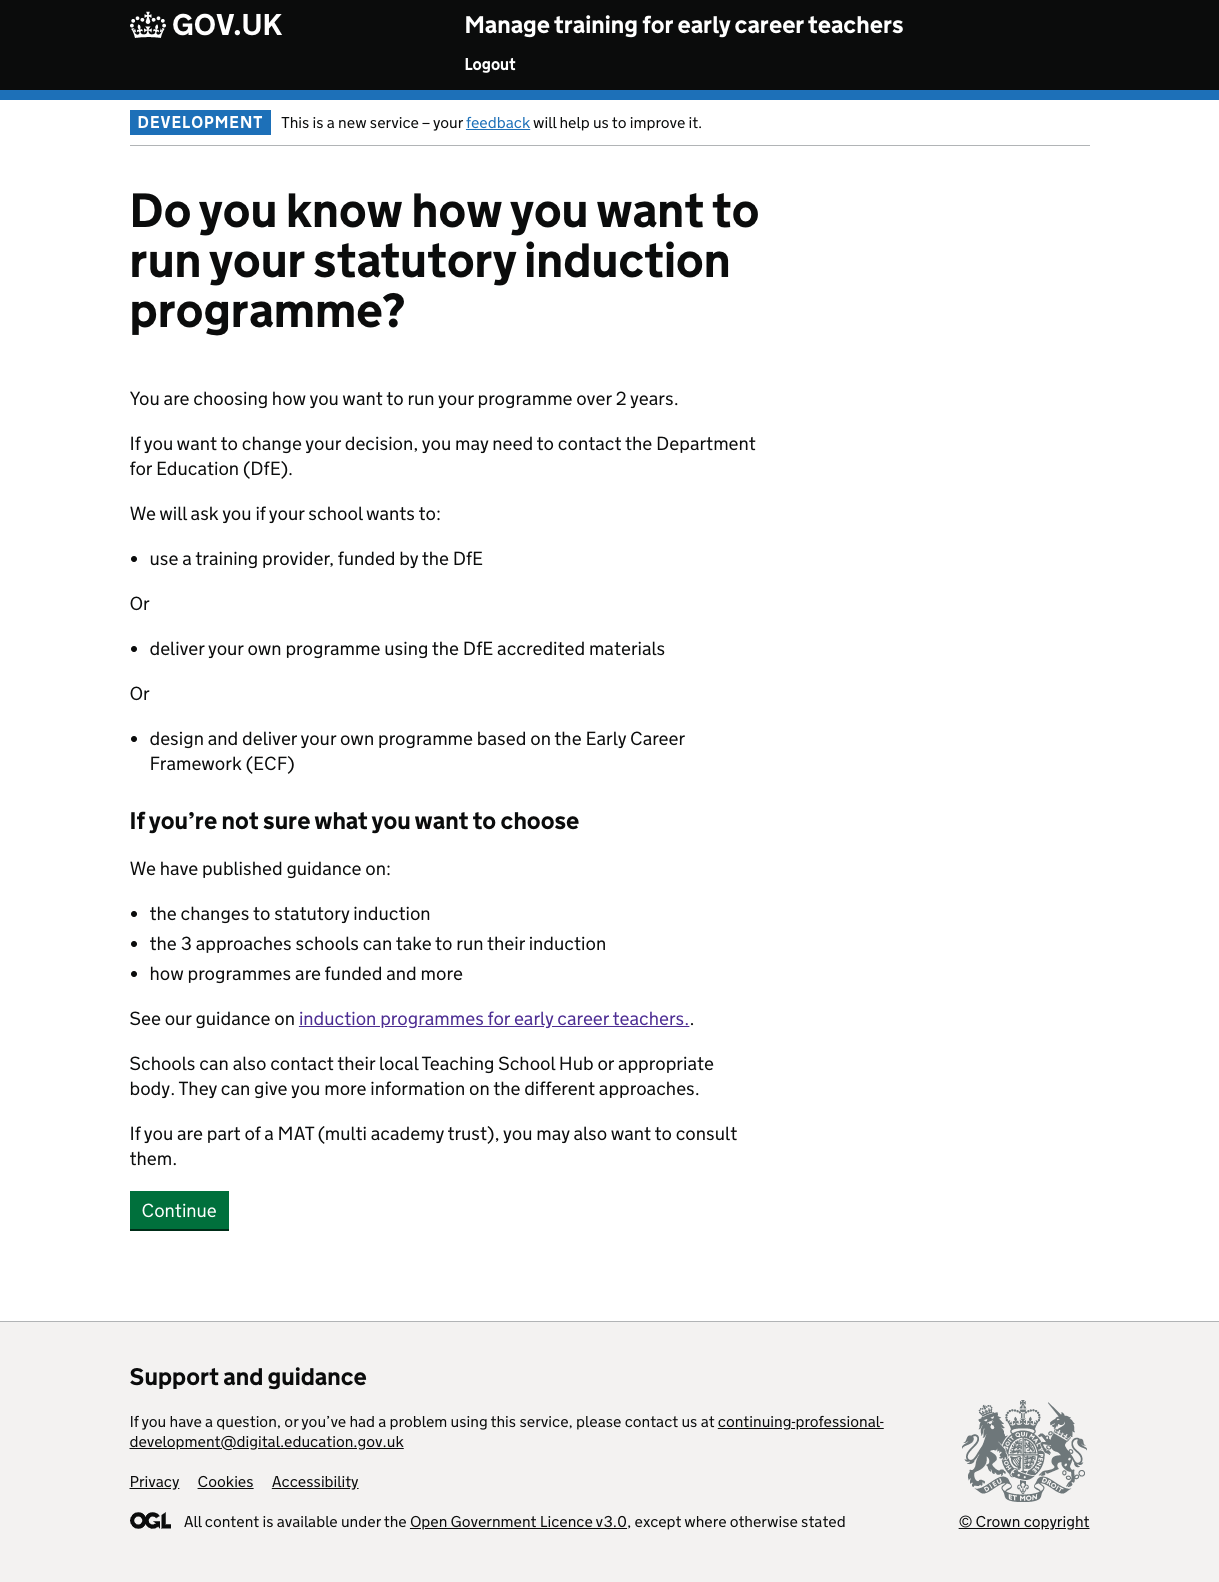
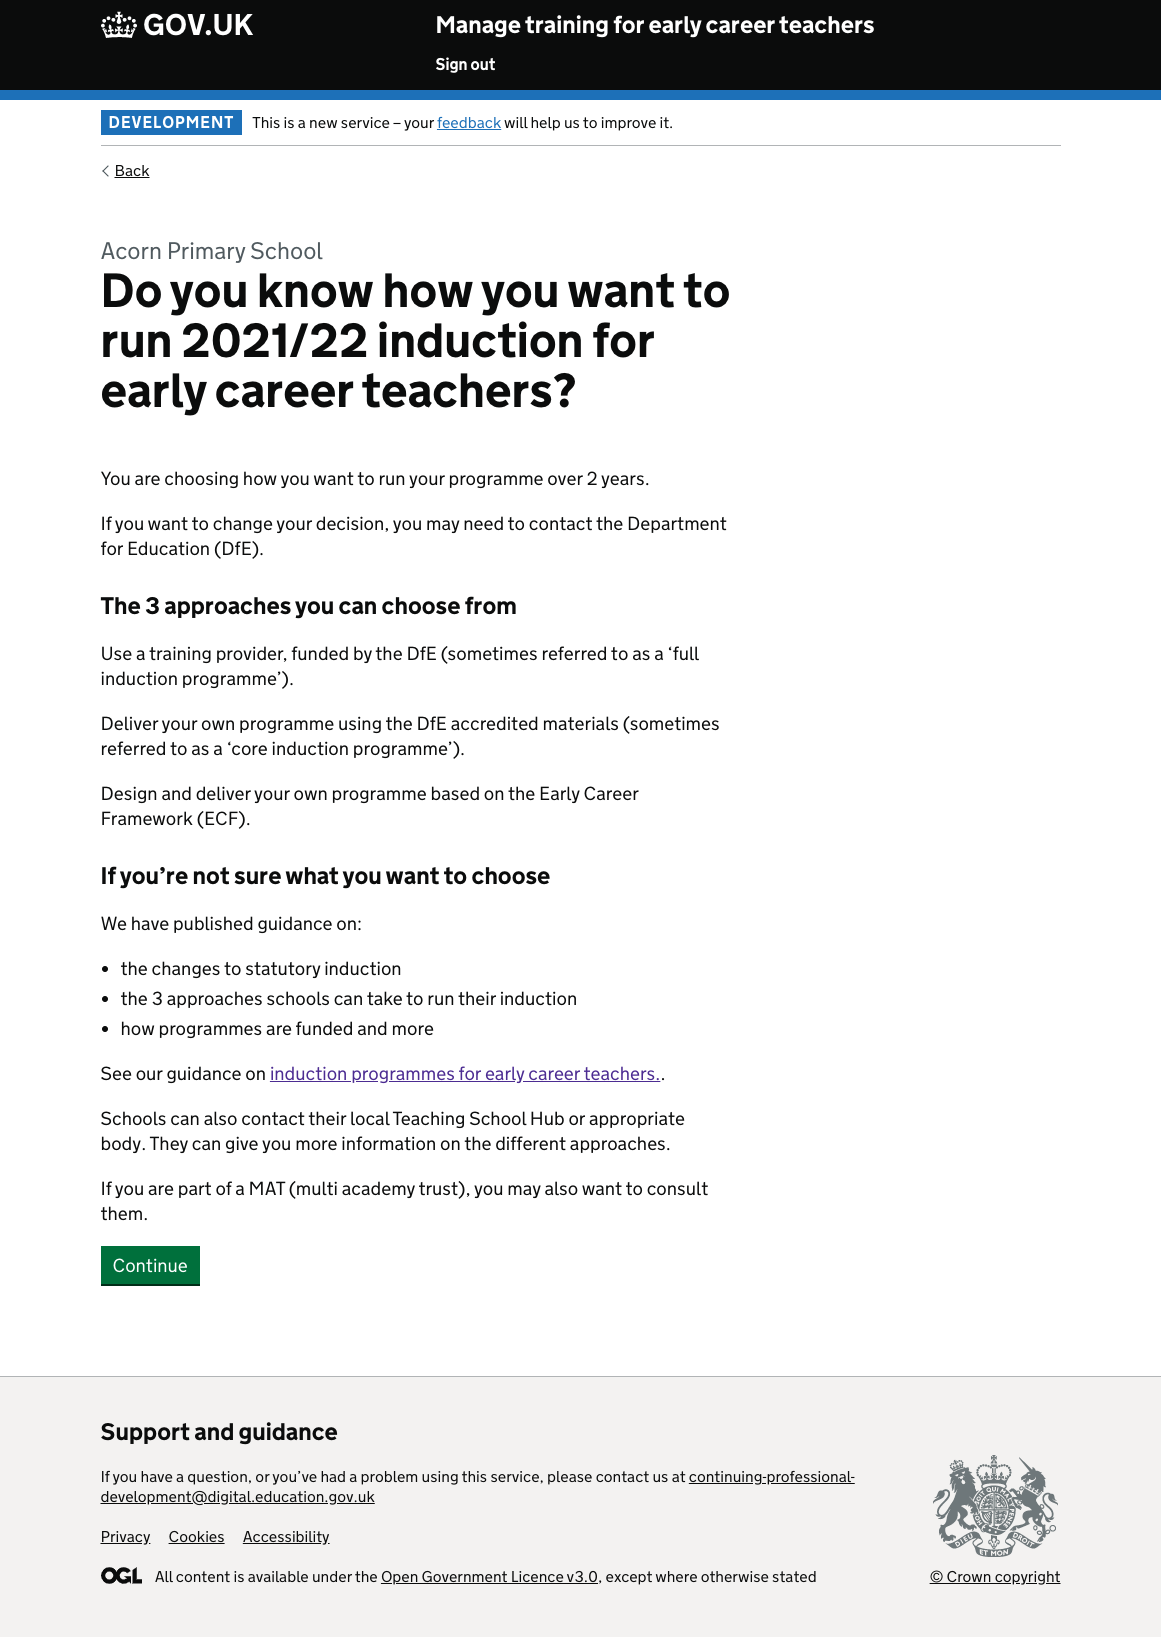
Amending post to contain new screens

Changed region(s): [[0.0, 0.0, 1.0, 0.8053], [0.093, 0.8673, 0.7442, 0.9912], [0.7752, 0.8673, 0.9302, 0.9912]]

diff --git a/app/posts/manage-training/2021-06-09-school-choosing-an-induction-programme.md b/app/posts/manage-training/2021-06-09-school-choosing-an-induction-programme.md
@@ -1,18 +1,19 @@
 ---
-title: A school choosing an induction programme for a cohort
-description: How a school sets up each cohort to use either an approved training provider (FIP) or use the DfE accredited materials (CIP).
+title: A school declares how they want to run inductions for a cohort
+description: How a school sets up a cohort to use an approved training provider (FIP), the DfE accredited materials (CIP), declares they are designing their own induction or states they have no ECTs starting in the academic year.
 date: 2021-06-09
 ---
 
-How a school sets up each cohort to use either an approved training provider (FIP) or use the DfE accredited materials (CIP).
-
+How a school sets up a cohort to use an approved training provider (FIP), the DfE accredited materials (CIP), declares they are designing their own induction or states they have no ECTs starting in the academic year.
 
 ## How it works
 The journey works as follows;
 1. On signing in for the first time, the user is presented with a brief overview of their choices and asked if they know how they want to run inductions for the upcoming cohort. Links to external guidance on GOV.UK are provided if they are unsure.
-2. The user chooses between either using an approved training provider (the Full Induction Programme / FIP) or using the DfE accredited materials (the Core Induction Programme / CIP)
-3. The user confirms their choice
-4. Their choice of programme is saved and they continue onto the respective next steps for [a school preparing to use an approved training provider (or the FIP)](/manage-training/school-preparing-to-use-an-approved-training-provider-fip/) or [a school preparing to use the DfE accredited materials (or the CIP)](/manage-training/school-preparing-to-use-dfe-approved-materials-cip/)
+2. The user chooses between the two DfE programmes on offer (ie. the FIP or CIP), or declares that they are running their own inductions or simply don't have any ECTs for this cohort.
+3. The user confirms their choice.
+4. Their choice of programme is saved and they continue onto the respective next steps for;
+* [a school preparing to use an approved training provider (FIP)](/manage-training/school-preparing-to-use-an-approved-training-provider-fip/)
+* [a school preparing to use the DfE accredited materials (CIP)](/manage-training/school-preparing-to-use-dfe-approved-materials-cip/)
 
 
 **Wireframe journey:**
@@ -56,14 +57,19 @@ Note that this error state currently isn't used in the live service, as schools 
       img: { src: "02-how-do-you-want-to-run-induction-programme.png" }
     }, {
       text: "Confirm your induction programme (FIP)",
-      img: { src: "03-confirm-your-induction-programme-fip.png" }
+      img: { src: "03-confirm-your-induction-programme-fip.png" },
+      caption: "The choice from the previous screen is presented back to the user"
     }, {
-      text: "Confirm your induction programme (CIP)",
-      img: { src: "04-confirm-your-induction-programme-cip.png" }
+      text: "Success: Induction programme confirmed (CIP or FIP)",
+      img: { src: "05-induction-programme-confirmed.png" },
+      caption: "This success page is the same, if the school has chosen either to use an approved training provider (FIP), the DfE accredited materials (CIP)."
     }, {
-      text: "Induction programme confirmed",
-      img: { src: "05-induction-programme-confirmed.png" }
+      text: "Success: Induction programme confirmed (Design and deliver your own programme)",
+      img: { src: "05-induction-programme-confirmed-diy.png"}
     }, {
+      text: "Success: Induction programme confirmed (No early career teachers for this cohort)",
+      img: { src: "05-induction-programme-confirmed-noects.png"}
+    },{
       text: "Error: Your school is not eligible for this programme",
       img: { src: "06-school-not-eligible.png" },
       caption: "See [note above](/manage-training/school-choosing-an-induction-programme/#error-states)"

diff --git a/app/posts/manage-training/2021-06-23-school-adding-participants-to-a-cohort.md b/app/posts/manage-training/2021-06-23-school-adding-participants-to-a-cohort.md
@@ -1,0 +1,57 @@
+---
+title: A school adding participants to a cohort
+description: How a school induction tutor adds Early Career Teachers and Mentors to a cohort
+date: 2021-06-23
+---
+
+How a school induction tutor adds Early Career Teachers and Mentors to a cohort
+
+## How it works
+The journey works as follows;
+1.
+
+
+**Wireframe journey:**
+[https://miro.com/app/board/o9J_ldVNkCY=/?moveToWidget=3074457356227023262&cot=14](https://miro.com/app/board/o9J_ldVNkCY=/?moveToWidget=3074457356227023262&cot=14)
+
+**Journey on prototype**
+[https://dfe-ecf-register-partner.herokuapp.com/school-signed-in/school-add-participants-to-cohort/choose-participant-type](https://dfe-ecf-register-partner.herokuapp.com/school-signed-in/school-add-participants-to-cohort/choose-participant-type)
+
+
+## Why we do a certain thing
+
+
+## Error states
+The journey also contained screens to account for scenarios where the user could not continue. These were;
+
+### This email has already been added
+
+
+{% from "screenshots/macro.njk" import appScreenshots with context %}
+{{ appScreenshots({
+  items: [{
+      text: "Manage cohort: use DfE accredited materials",
+      img: { src: "01.png" }
+    }, {
+      text: "Your early career teachers (ECTs) and mentors",
+      img: { src: "02.png" }
+    }, {
+      text: "Add your early career teachers and mentors",
+      img: { src: "03.png" }
+    }, {
+      text: "Enter their personal details",
+      img: { src: "04.png" }
+    }, {
+      text: "Who is the mentor for this Early Career Teacher?",
+      img: { src: "05.png" }
+    }, {
+      text: "Confirm these details",
+      img: { src: "06.png" }
+    }, {
+      text: "Success: You have added <full name> to the cohort",
+      img: { src: "07.png" }
+    }, {
+      text: "Error: this email has already been added",
+      img: { src: "09.png" }
+    }]
+}) }}
